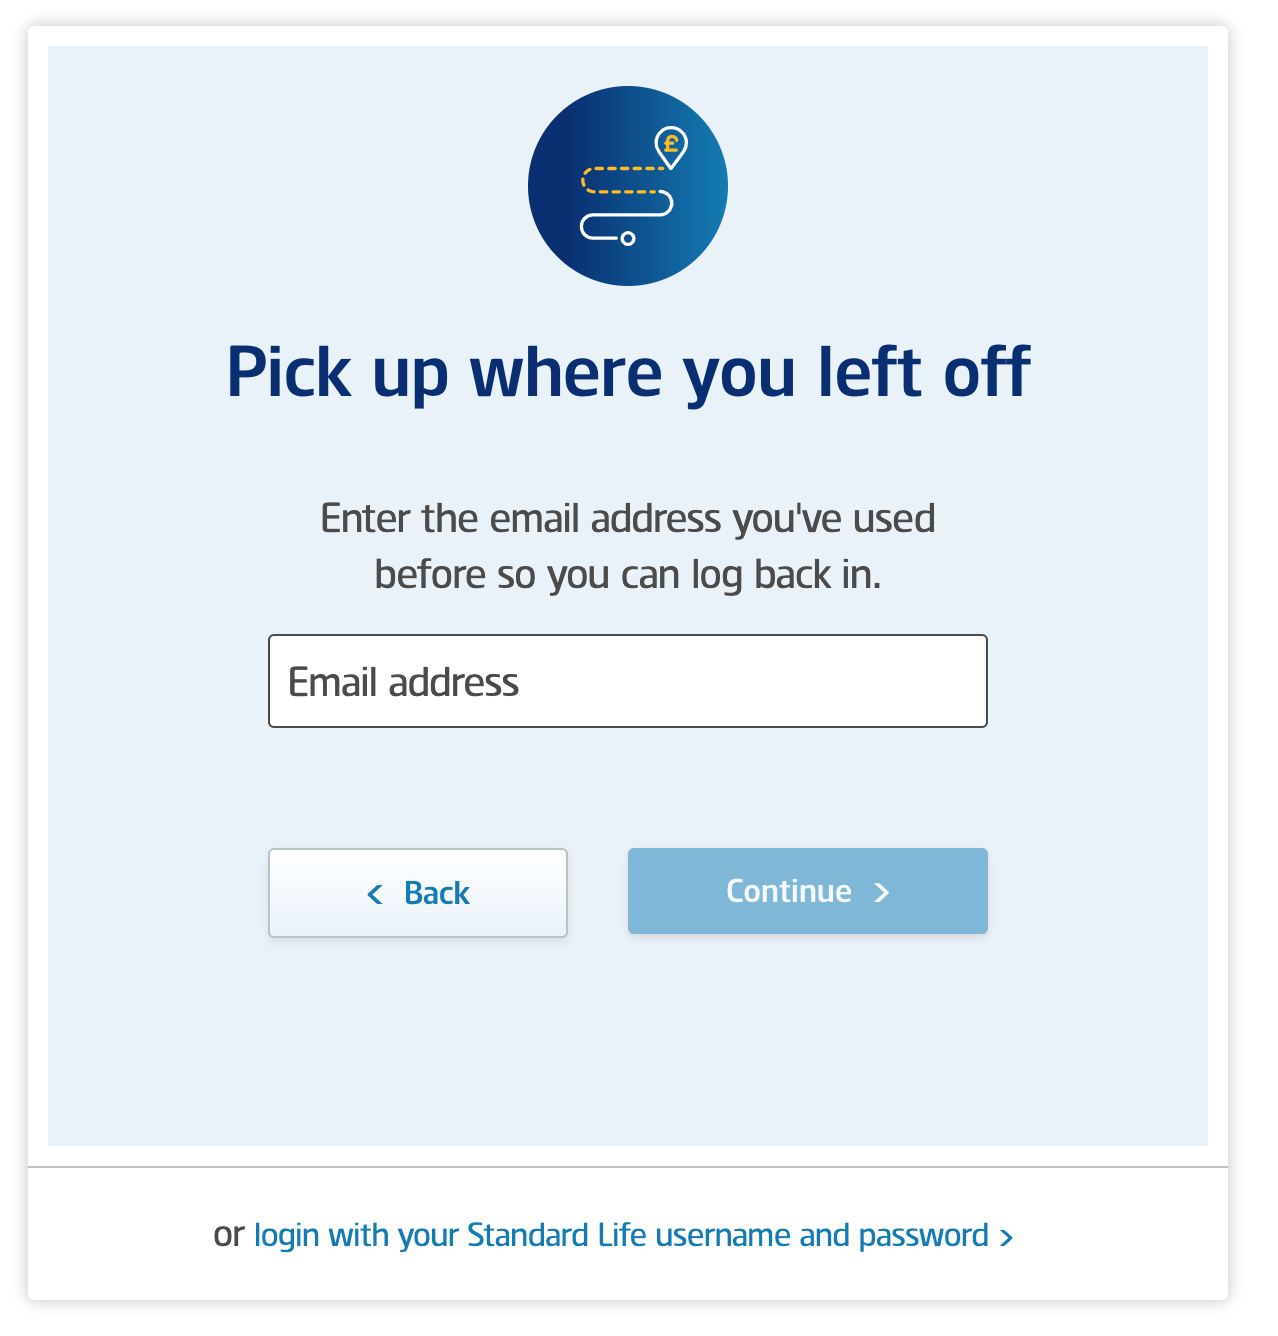
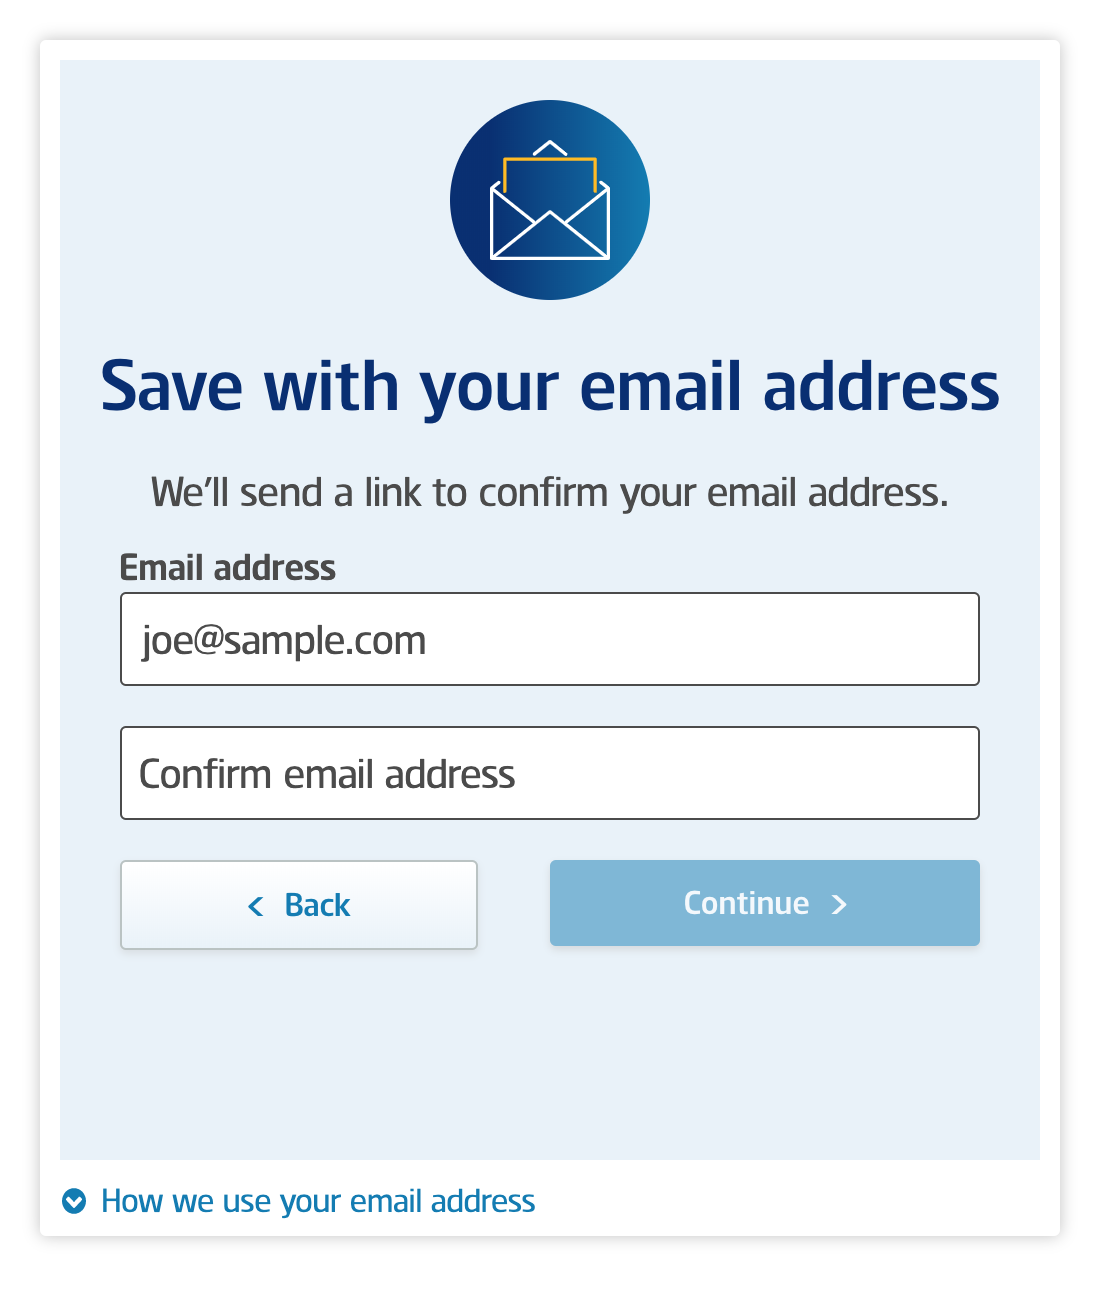
magic link example

diff --git a/work/passwordless-login.html b/work/passwordless-login.html
@@ -1,0 +1,111 @@
+<!DOCTYPE html>
+<html>
+
+<head>
+  <title>Passwordless login user flow and mockups | Ross Kucsera</title>
+  <meta name="description" content="Here's a selection of projects I've worked on over the past eight years.">
+  <meta name="keywords"
+    content="case studies, work, infographics, white papers, reports, portfolio, ui, design, html, css, layout, visual design">
+  <meta name="author" content="Ross Kucsera">
+  <meta name="viewport" content="width=device-width,initial-scale=1">
+
+  <link rel="stylesheet" type="text/css" href="../css/styles.css">
+  <link rel="stylesheet" type="text/css" href="../css/pe-icon-7-stroke/css/pe-icon-7-stroke.css">
+  <link rel="icon" type="image/x-icon" href="../favicon.ico" />
+  <script>
+    window['_fs_debug'] = false;
+    window['_fs_host'] = 'fullstory.com';
+    window['_fs_org'] = '5A4FG';
+    window['_fs_namespace'] = 'FS';
+    (function (m, n, e, t, l, o, g, y) {
+      if (e in m && m.console && m.console.log) { m.console.log('FullStory namespace conflict. Please set window["_fs_namespace"].'); return; }
+      g = m[e] = function (a, b) { g.q ? g.q.push([a, b]) : g._api(a, b); }; g.q = [];
+      o = n.createElement(t); o.async = 1; o.src = 'https://' + _fs_host + '/s/fs.js';
+      y = n.getElementsByTagName(t)[0]; y.parentNode.insertBefore(o, y);
+      g.identify = function (i, v) { g(l, { uid: i }); if (v) g(l, v) }; g.setUserVars = function (v) { g(l, v) };
+      g.identifyAccount = function (i, v) { o = 'account'; v = v || {}; v.acctId = i; g(o, v) };
+      g.clearUserCookie = function (c, d, i) {
+        if (!c || document.cookie.match('fs_uid=[`;`]*`[`;`]*`[`;`]*`')) {
+          d = n.domain; while (1) {
+            n.cookie = 'fs_uid=;domain=' + d +
+              ';path=/;expires=' + new Date(0).toUTCString(); i = d.indexOf('.'); if (i < 0) break; d = d.slice(i + 1)
+          }
+        }
+      };
+    })(window, document, window['_fs_namespace'], 'script', 'user');
+  </script>
+</head>
+
+<body>
+  <div class="page-content">
+    <div class="nav-container">
+      <nav class="max-width">
+        <a href="/">Ross Kucsera</a>
+        <a href="/work"><i class="pe-7s-albums pe-lg pe-fw"></i>Work</a>
+        <a href="/about"><i class="pe-7s-info pe-lg pe-fw"></i>About me</a>
+      </nav>
+    </div>
+    <div class="gradient-deep-aqua padding-all padding-bottom-x4">
+      <section class="grid grid__header max-width text-align-center color-white padding-bottom-x2">
+        <a class="previous button" href="retirement-advice.html">Previous</a>
+        <a class="next button" href="css-animation-loader.html">Next</a>
+        <h1 class="title">Passwordless login workflow</h1>
+        <p class="subtitle padding-top"></p>
+      </section>
+      <section class="grid grid__40-40-20 max-width border-radius color-white background-opaque padding-all">
+        <div class="padding-right-x2">
+          <h2>Problem</h2>
+          <p class="smaller">Many customers dropped out of the journey when they were forced to use the username and password for an account
+            many accessed only once or twice a year — this was their pension account after all.</p>
+        </div>
+        <div class="padding-right-x2">
+          <h2>Solution</h2>
+          <p class="smaller">Designed the workflow and screens for an easy, low commitment way for a customer to save their progress and get back to their results.</p>
+        </div>
+        <div>
+          <h2>My role</h2>
+          <ul class="smaller">
+            <li>User flow</li>
+            <li>Stakeholder management</li>
+            <li>Design</li>
+            <li>Front-end development</li>
+          </ul>
+        </div>
+      </section>
+    </div>
+    <div class="max-width padding-all">
+      <section class="grid__text-image margin-top-x2">
+        <div class="text-item">
+          <h2>Getting everyone on the same page</h2>
+          <p class="margin-top smaller">This new feature was primarly driven by the authentication platform owned by the developers on the team.</p>
+          <p class="margin-top smaller">I worked closely with them to understand the various types of users we had to account for in this new world of "passwordless login".</p>
+          <p class="margin-top smaller">Not only we did we have users coming for the first time and wanting to save, we also had ones returning and wanting to pick up their progress and some who had previously saved using their full username and password.</p>
+          <p class="margin-top smaller">After speaking with our development team, I used <a class="smaller" target="_blank" href="https://www.flowmapp.com">Flowmapp</a> to create this user flow showing the various paths we had to account for.</p>
+          <p class="margin-top smaller">Before getting into any designs, I shared the user flow around the team to get consensus from product, developer, marketing and leadership team members.</p>
+        </div>
+        <div class="image-item">
+          <img class="border border-radius" src="../imgs/magic-link-flow.png" />
+        </div>
+      </section>
+      <section class="grid__text-image margin-top-x2">
+        <div class="text-item">
+          <h2>Getting into the front-end</h2>
+          <p class="margin-top smaller">In parallel with the user flow and design work, our developers were refactoring the authentication and security side of our app.</p>
+          <p class="margin-top smaller">This meant there were skeleton pages already created for the various user-facing screens from my flow map in the testing environment.</p>
+          <p class="margin-top smaller">I created a feature branch in the testing environment and handled all the front-end work on this feature working to flesh out the placeholder pages the developers had been using for testing.</p>
+        </div>
+        <div class="image-item">
+          <img class="border border-radius margin-bottom" src="../imgs/passwordless-login-save.png" />
+          <img class="border border-radius" src="../imgs/passwordless-login-pickup.png" />
+        </div>
+      </section>
+      
+    </div>
+    <footer class="text-align-center">
+      <span>Made by me in <span class="emoji" role="img" aria-label="Scotland"
+          title="Made in sunny Edinburgh, Scotland">🏴</span> </span>© 2019 Ross Kucsera</span>
+    </footer>
+  </div>
+</body>
+
+</html>

diff --git a/work.html b/work.html
@@ -79,7 +79,7 @@
           <a class="image-link" href="work/retirement-advice.html"><img src="imgs/digital-advice-summary.png" /></a>
         </div>
       </section>
-      <!-- <section class="grid__work-item max-width background-grey padding-all-x2 margin-top-x2">
+      <section class="grid__work-item max-width background-grey padding-all-x2 margin-top-x2">
         <div class="work-item-content">
           <h2>Passwordless login workflow</h2>
           <p class="margin-top">The only way a customer could save their results from a service that provided a rough
@@ -87,8 +87,6 @@
             many accessed only once or twice a year — this was their pension/retirement account after all.</p>
           <p class="margin-top">To improve the customer experience and increase engagement of our service we introduced
             a passwordless or "magic link" login option.</p>
-          <p class="margin-top">I created a user flow showing the various paths we had to account and worked directly on
-            the front-end after the backend authentication work had been built.</p>
           <p class="margin-top-x2"><a class="button" href="work/passwordless-login.html">See workflow and more designs
               ></a></p>
           </p>
@@ -96,7 +94,7 @@
         <div class="work-item-image">
           <a class="image-link" href="work/passwordless-login.html"><img src="imgs/passwordless-login-save.png" /></a>
         </div>
-      </section> -->
+      </section>
       <section class="grid__work-item max-width background-grey padding-all-x2 margin-top-x2">
         <div class="work-item-content margin-right-x4">
           <h2>CSS-animation loading component</h2>

diff --git a/work/retirement-advice.html b/work/retirement-advice.html
@@ -48,7 +48,7 @@
     <div class="gradient-deep-aqua padding-all padding-bottom-x4">
       <section class="grid grid__header max-width text-align-center color-white padding-bottom-x2">
         <a class="previous button" href="thought-leadership-content.html">Previous</a>
-        <a class="next button" href="css-animation-loader.html">Next</a>
+        <a class="next button" href="passwordless-login.html">Next</a>
         <h1 class="title">Journey design for digital retirement advice</h1>
         <p class="subtitle padding-top">Prior to this online retirement advice and planning service being launched,
           Standard Life only offered financial advice to wealthier customers, leaving the majority of customers without
